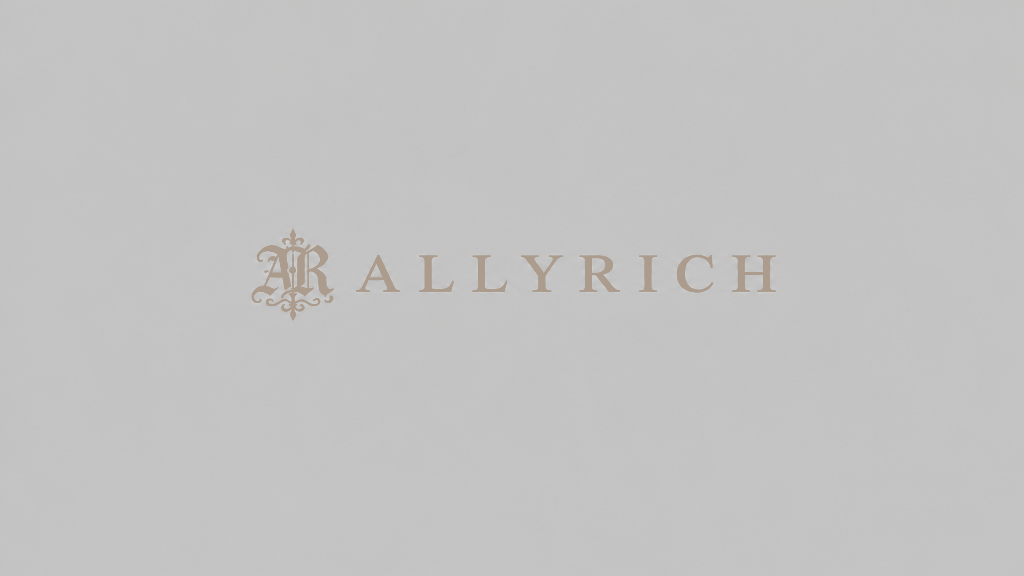
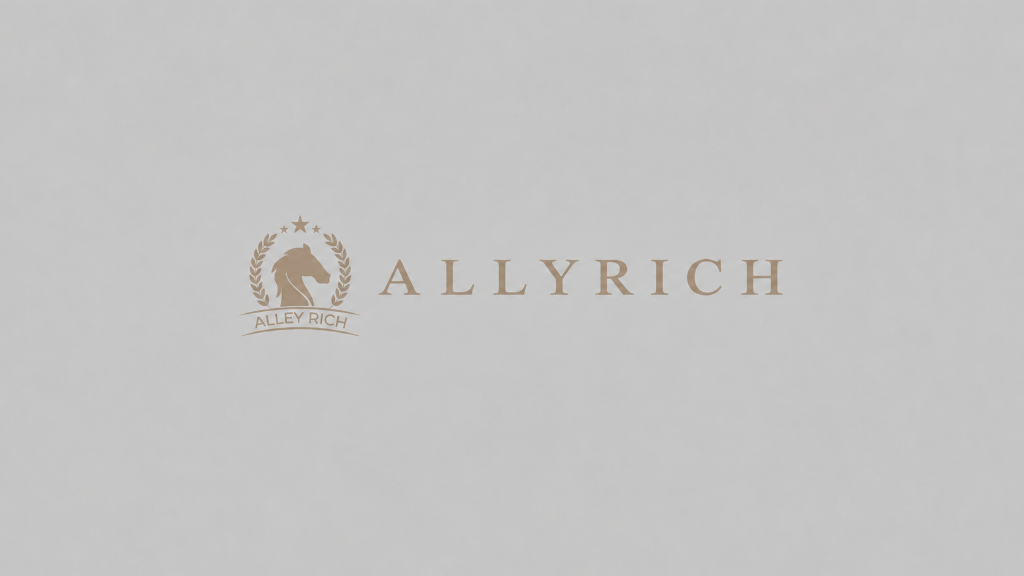
feat(hero): replace 3D hero background with updated ALLEYRICH emblem and wordmark

Changed region(s): [[0.2188, 0.375, 0.7812, 0.5938]]

diff --git a/index.html b/index.html
@@ -3985,7 +3985,7 @@ first.parentNode.insertBefore(script, first);
       width: 100%;
       height: 100%;
       background-color: #c2c1c0;
-      background-image: url('/assets/allyrich-hero-bg.png');
+      background-image: url('/assets/allyrich-hero-bg.png?v=2');
       background-size: cover;
       background-position: center center;
       background-repeat: no-repeat;
